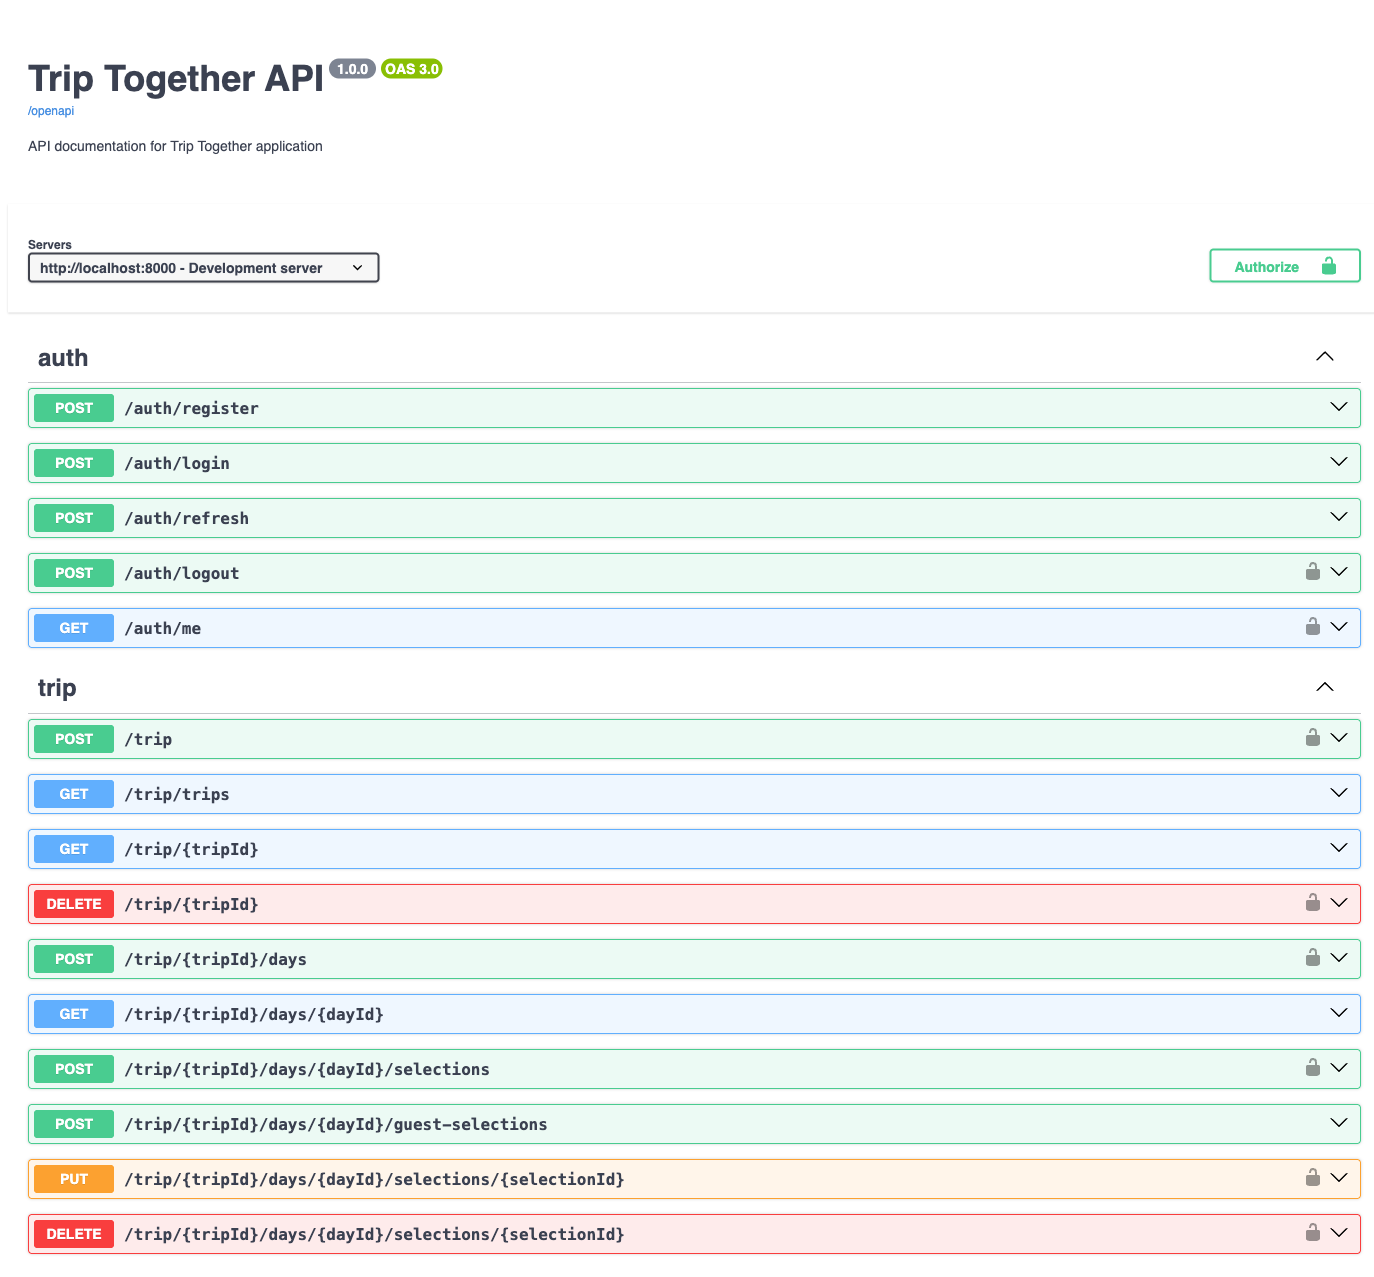
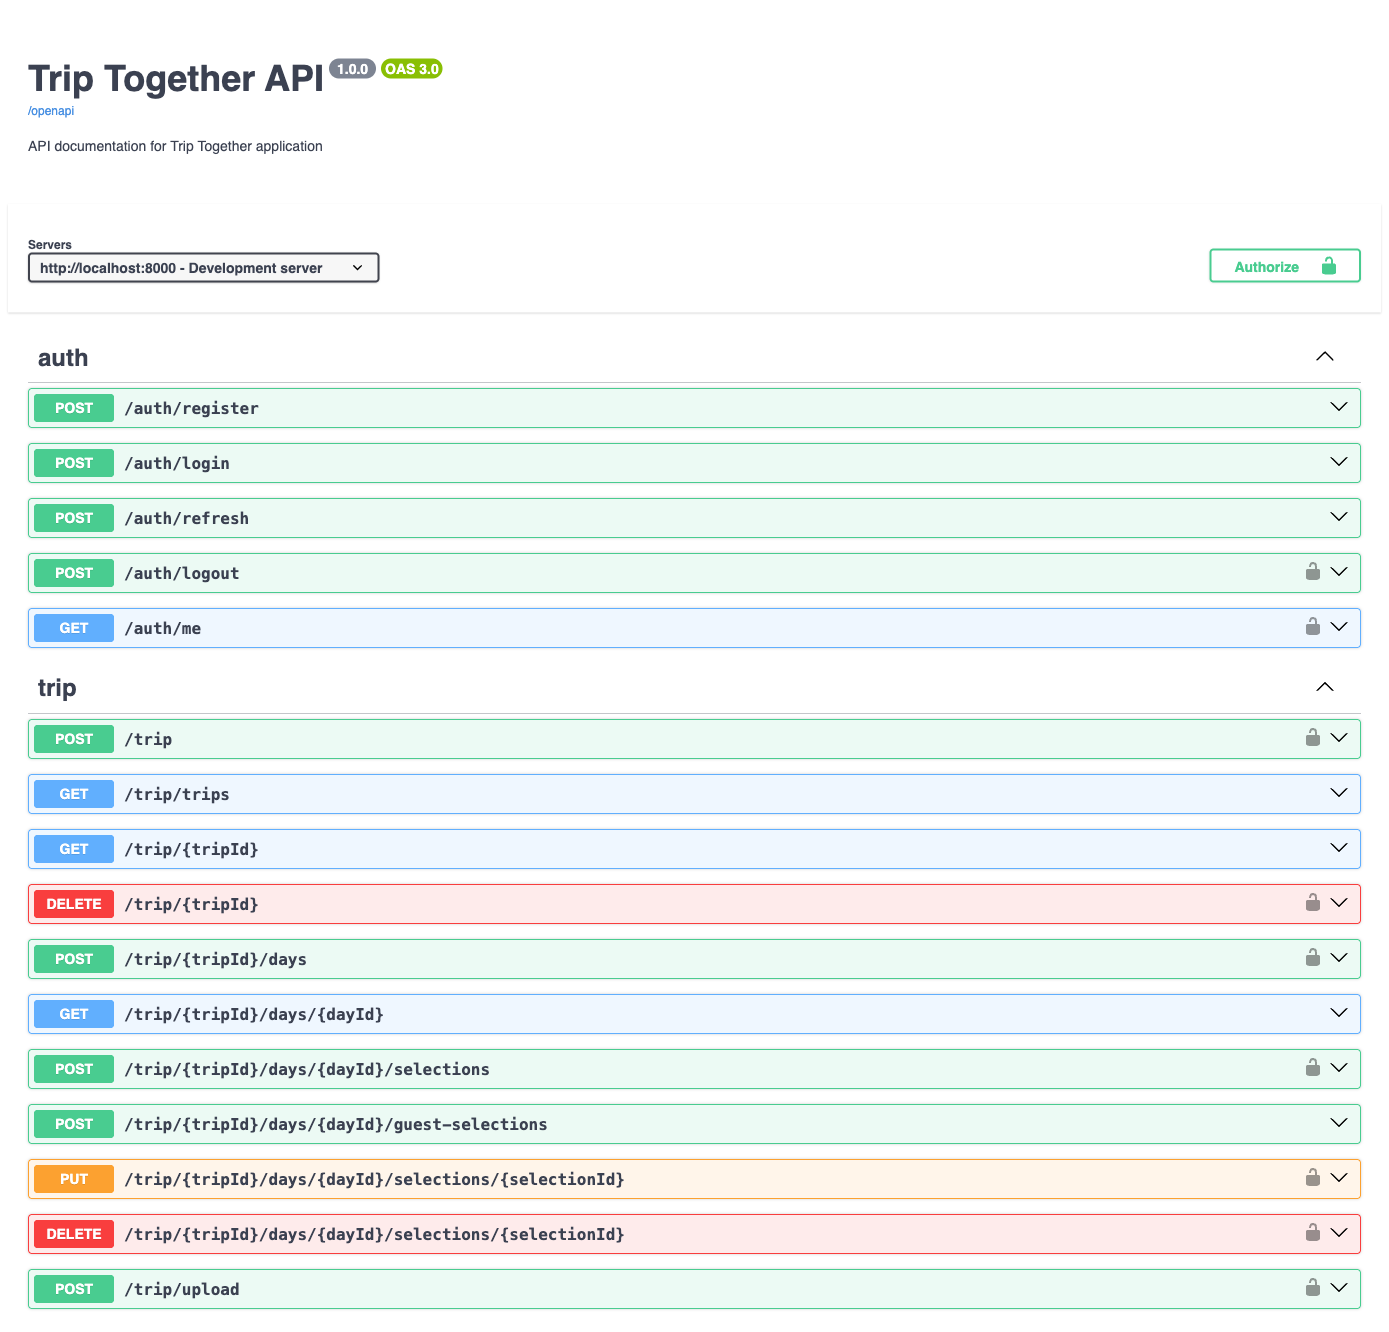
document the image upload endpoint
the upload route was registered with router.post, so it never reached
the openapi spec and swagger ui did not show it. it now goes through
router.openapi with a multipart body, and sits above the default export
instead of after it.

diff --git a/server/src/routes/trips/trips.routes.ts b/server/src/routes/trips/trips.routes.ts
@@ -909,3 +909,82 @@ export const deleteDaySelection = createRoute({
     },
   },
 });
+
+export const uploadImage = createRoute({
+  method: "post",
+  path: "/upload",
+  middleware: [authMiddleware],
+  tags,
+  security: [
+    {
+      BearerAuth: [],
+    },
+  ],
+  request: {
+    body: {
+      content: {
+        "multipart/form-data": {
+          schema: tripSchemas.uploadImage,
+        },
+      },
+    },
+  },
+  responses: {
+    201: {
+      content: {
+        "application/json": {
+          schema: tripSchemas.uploadImageResponse,
+          example: {
+            objectKey: "2025/01/05/uuid.jpg",
+            url: "http://localhost:9000/upload/2025/01/05/uuid.jpg",
+          },
+        },
+      },
+      description: "Image uploaded successfully",
+    },
+    400: {
+      content: {
+        "application/json": {
+          schema: tripSchemas.error,
+          example: {
+            error: "Only PNG, JPEG, GIF, WebP or AVIF images are allowed",
+          },
+        },
+      },
+      description: "Invalid image",
+    },
+    401: {
+      content: {
+        "application/json": {
+          schema: tripSchemas.error,
+          example: {
+            error: "Unauthorized: Please provide a valid authentication token",
+          },
+        },
+      },
+      description: "Unauthorized",
+    },
+    415: {
+      content: {
+        "application/json": {
+          schema: tripSchemas.error,
+          example: {
+            error: "Content-Type must be multipart/form-data",
+          },
+        },
+      },
+      description: "Unsupported media type",
+    },
+    500: {
+      content: {
+        "application/json": {
+          schema: tripSchemas.error,
+          example: {
+            error: "Failed to upload file",
+          },
+        },
+      },
+      description: "Internal server error",
+    },
+  },
+});

diff --git a/server/src/routes/trips/trips.ts b/server/src/routes/trips/trips.ts
@@ -432,6 +432,42 @@ export const tripWithDaysAndSelectionsSchema = z
   });
 
 // Common response schemas
+// Upload image schemas
+export const uploadImageSchema = z
+  .object({
+    file: z.instanceof(File).openapi({
+      type: "string",
+      format: "binary",
+      description: "Image file (PNG, JPEG, GIF, WebP or AVIF), max 5MB",
+    }),
+  })
+  .openapi({
+    type: "object",
+    description: "Image upload data",
+  });
+
+export const uploadImageResponseSchema = z
+  .object({
+    objectKey: z.string().openapi({
+      type: "string",
+      description: "Object key inside the bucket",
+      example: "2025/01/05/uuid.jpg",
+    }),
+    url: z.string().openapi({
+      type: "string",
+      description: "Public URL of the uploaded image",
+      example: "http://localhost:9000/upload/2025/01/05/uuid.jpg",
+    }),
+  })
+  .openapi({
+    type: "object",
+    description: "Uploaded image",
+    example: {
+      objectKey: "2025/01/05/uuid.jpg",
+      url: "http://localhost:9000/upload/2025/01/05/uuid.jpg",
+    },
+  });
+
 export const errorSchema = z
   .object({
     error: z.string().openapi({
@@ -577,6 +613,8 @@ export const tripSchemas = {
   addTripDay: addTripDaySchema,
   userDaySelection: userDaySelectionSchema,
   createDaySelection: createDaySelectionSchema,
+  uploadImage: uploadImageSchema,
+  uploadImageResponse: uploadImageResponseSchema,
   tripWithDays: tripWithDaysSchema,
   tripWithDaysAndSelections: tripWithDaysAndSelectionsSchema,
   tripDayWithSelections: tripDayWithSelectionsSchema,

diff --git a/server/src/routes/trips/trips.index.ts b/server/src/routes/trips/trips.index.ts
@@ -488,7 +488,6 @@ router.openapi(tripRoutes.deleteDaySelection, async (c) => {
   return c.json({ message: "Selection deleted successfully" }, 200);
 });
 
-export default router;
 
 // Detect the image type from magic bytes, or null if it is not an allowed image
 function detectImageType(buffer: Buffer): string | null {
@@ -515,9 +514,8 @@ function detectImageType(buffer: Buffer): string | null {
   return null;
 }
 
-// Raw image upload endpoint (multipart/form-data)
-// This is not part of OpenAPI for now; could be added later if desired
-router.post("/upload", authMiddleware, async (c) => {
+// Upload a trip image
+router.openapi(tripRoutes.uploadImage, async (c) => {
   const contentType = c.req.header("content-type") || "";
   if (!contentType.includes("multipart/form-data")) {
     return c.json({ error: "Content-Type must be multipart/form-data" }, 415);
@@ -562,3 +560,5 @@ router.post("/upload", authMiddleware, async (c) => {
     return c.json({ error: "Failed to upload file" }, 500);
   }
 });
+
+export default router;

diff --git a/README.md b/README.md
@@ -188,8 +188,6 @@ Base URL `http://localhost:8000`. **Yes** means the request needs an `Authorizat
 | DELETE | `/trip/{tripId}/days/{dayId}/selections/{selectionId}` | Yes  | Remove a pick                              |
 | POST   | `/trip/upload`                                         | Yes  | Upload a photo — multipart `file`, max 5MB |
 
-Every endpoint except `/trip/upload` is documented at `/docs`.
-
 ---
 
 ## How to run
